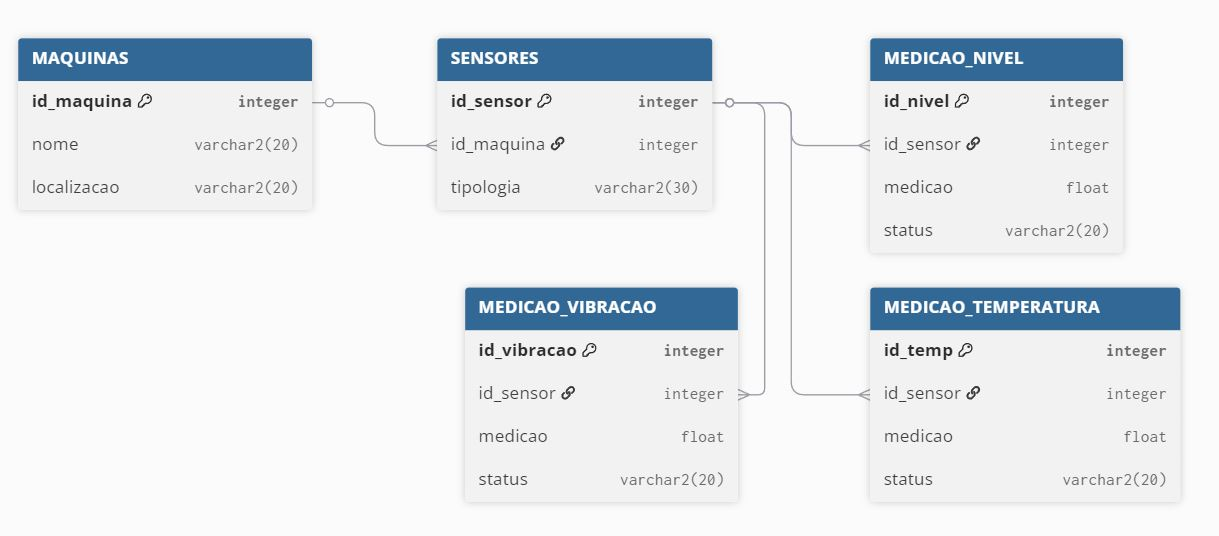
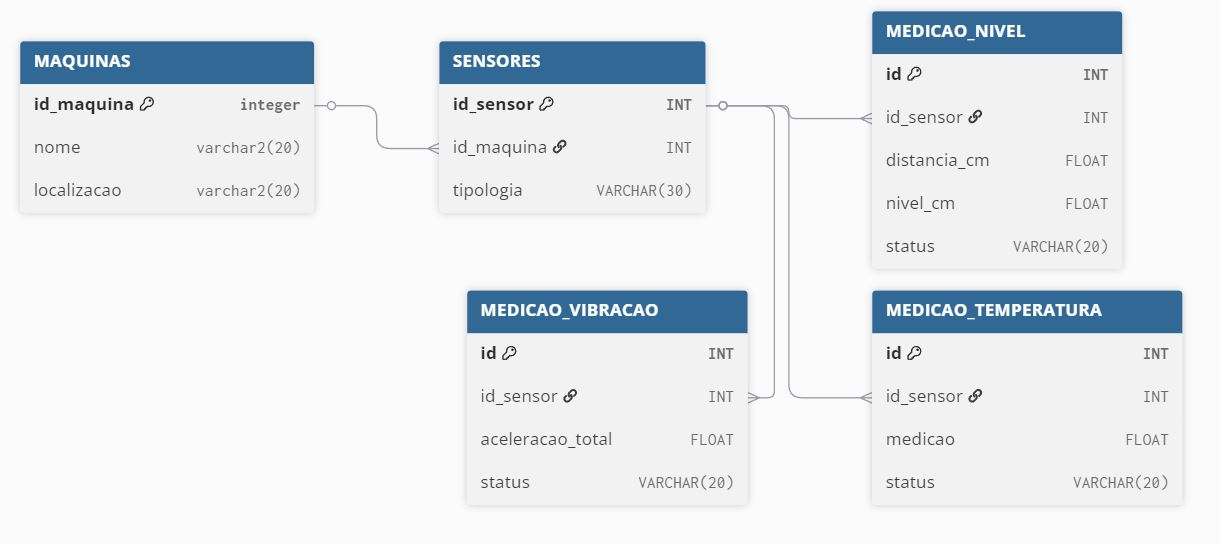
'Adding database'

diff --git a/README.md b/README.md
@@ -340,7 +340,7 @@ Os gráficos apresentados anteriormente, também fornecem uma visão clara da tr
 
 - id_maquina
 - nome (maquina_1, maquina_2, maquina_3)
-- localizacao (sala_1, sala_2)
+- localizacao (area_1, area_2)
 
 ## SENSORES
 
@@ -350,21 +350,21 @@ Os gráficos apresentados anteriormente, também fornecem uma visão clara da tr
 
 ## MEDICAO VIBRACAO
 
-- id_vibracao
+- id
 - id_sensor
 - medicao (resultado da medição do sensor)
 - status (NORMAL, ALERTA_Pre_falha, FALHA_CRITICA)
 
 ## MEDICAO TEMPERATURA
 
-- id_temp
+- id
 - id_sensor
 - medicao (resultado da medição do sensor)
 - status (NORMAL, ALERTA_Pre_falha, FALHA_CRITICA)
 
 ## MEDICAO NIVEL DE ENCHIMENTO
 
-- id_nivel
+- id
 - id_sensor
 - medicao (resultado da medição do sensor)
 - status (NORMAL, ALERTA_Pre_falha, FALHA_CRITICA)
@@ -383,8 +383,53 @@ Os gráficos apresentados anteriormente, também fornecem uma visão clara da tr
 # 🗝 Modelagem de dados
 ![Modelagem de dados](img/modelagem.JPG)
 
+> Para a modelagem dos dados foi utilizado o site dbdiagram.io
+
+```cpp
+// Trecho representativo da criação da modelagem de dados
+
+TABLE MEDICAO_VIBRACAO { // Criação da tabela definindo as colunas e suas características e restrições
+  id INT [primary key]
+  id_sensor INT
+  aceleracao_total FLOAT
+  status VARCHAR(20)
+  }
+
+Ref: "SENSORES"."id_sensor" < "MEDICAO_VIBRACAO"."id_sensor" // Referenciando a chave estrangeira com outra coluna
+
+```
+
+![Código para Modelagem de dados](img/codigo_modelagem.JPG)
+
+---
+
 # 📊 Banco de dados
 
+```cpp
+// Trecho representativo da criação do banco de dados
+// Primeiro importar o arquivo .csv gerado pela medição sensor correspondente
+
+ALTER TABLE medicao_vibracao ADD COLUMN id_sensor; // adicionar a coluna id_sensor
+
+UPDATE medicao_vibracao SET id_sensor = 3; // informar que o sensor tem o id '3' da tabela SENSORES
+
+ALTER TABLE medicao_vibracao RENAME TO medicao_vibracao_old; // Alterar o nome da tabela para criar uma nova com a chave estrangeira id_sensor
+
+CREATE TABLE MEDICAO_VIBRACAO ( //Criação da nova tabela
+  id INT PRIMARY KEY,
+  id_sensor INT,
+  aceleracao_total FLOAT,
+  status VARCHAR(20),
+  FOREIGN KEY (id_sensor) REFERENCES SENSORES(id_sensor)
+  );
+ 
+ INSERT INTO MEDICAO_VIBRACAO (id, id_sensor, aceleracao_total, status) //Adição dos dados contidos na tabela anterior
+ SELECT ID, id_sensor, Aceleracao_Total, Status
+ FROM medicao_vibracao_old;
+ 
+ DROP TABLE medicao_vibracao_old; // Deletar tabela antiga
+  
+```
 
 ---
 
@@ -414,7 +459,7 @@ O sistema deverá receber os dados de cada sensor.
 ## 4. Banco de dados
 A partir das informações recebidas e registradas, deverão ser armazenadas em um banco de dados. 
 
-> Os relacionamentos entre as entidades irão proporcionar insights valiosos que poderão ser detectados pelo modelo preditivo
+> Os relacionamentos entre as entidades irão proporcionar insights valiosos que poderão ser detectados pelo modelo preditivo.
 
 ---
 
